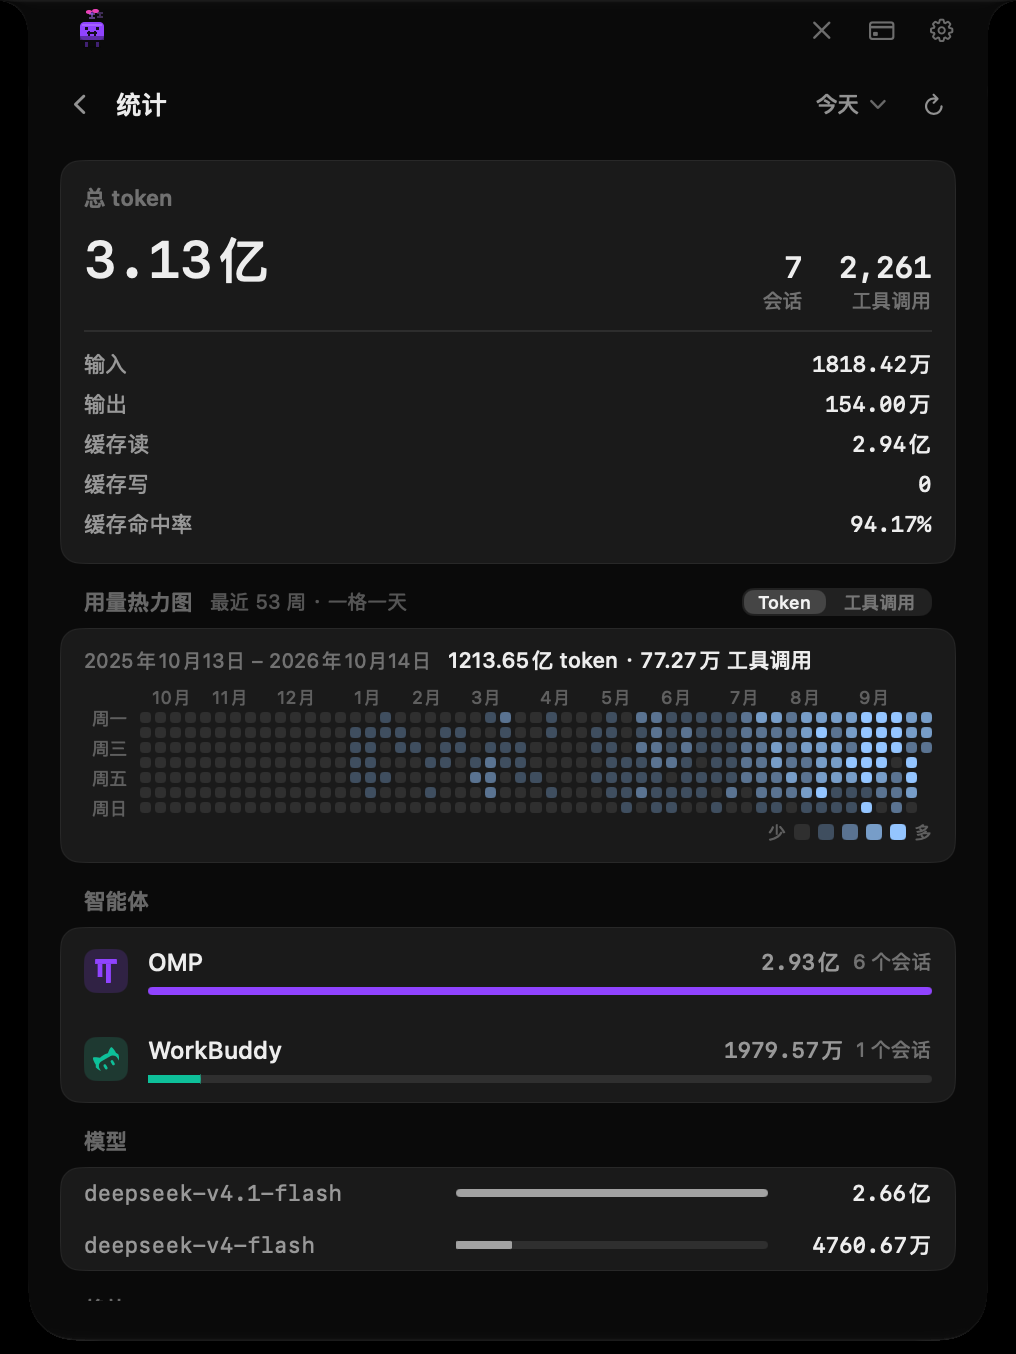
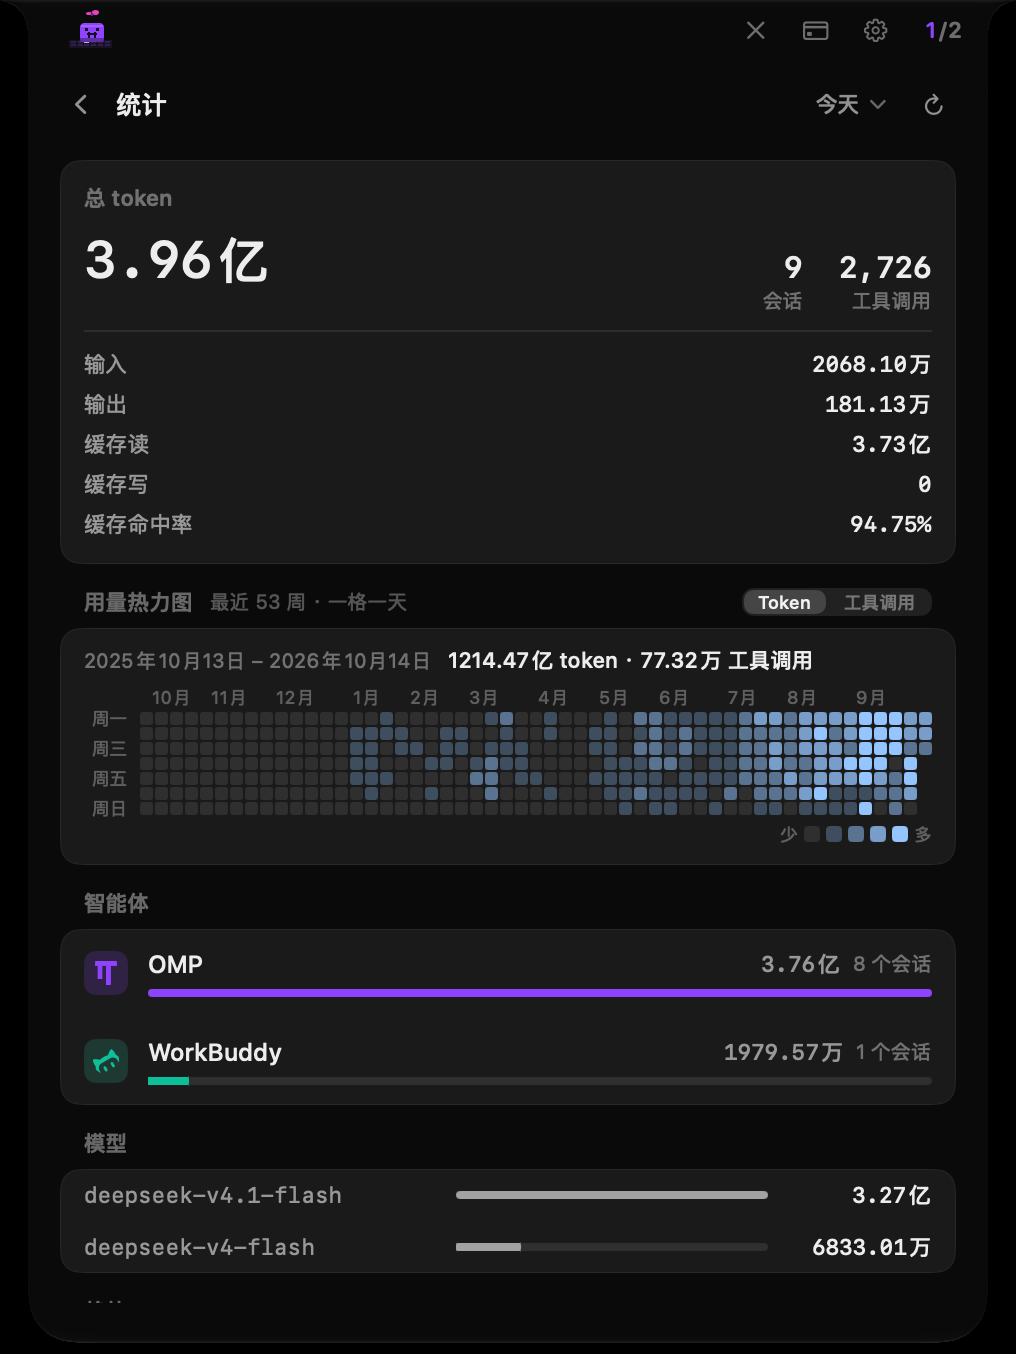
fix: 热力图格间距 2 → 1pt（格子更大、不再像点阵）
53 列塞进几百点宽时，2pt 的缝快赶上格子本身宽（约 36%），一眼是「点阵」不是热力图。
收到 1pt 后标准档格子 5.51 → 6.49pt（紧凑档 4.42 → 5.40pt），整块更接近参考稿的密度；
月历标签行与星期标签栏共用同一个间距常量，因此标签与列仍然逐列对齐。

图例的色阶方块间距顺手抽成常量（`heatmapLegendSwatchSpacing`，3pt）——它原来写死在视图里、
宽度用例里又抄了一遍字面量。

README 两张统计页截图跟着重拍。

diff --git a/AgentIsland/Core/UsageStatsLayout.swift b/AgentIsland/Core/UsageStatsLayout.swift
@@ -193,9 +193,12 @@ nonisolated enum UsageStatsMetrics {
 
     // MARK: - 热力图（近 53 周 · 每日用量）
 
-    /// 格子间距（行、列同一个）与圆角。格子小（标准档约 5.5pt），圆角因此比
+    /// 格子间距（行、列同一个）与圆角。格子小（标准档约 6.5pt），圆角因此比
     /// `shareBarRadius` 还小一档。
-    static let heatmapCellSpacing: CGFloat = 2
+    ///
+    /// 间距取 1pt：53 列塞进几百点宽，2pt 的缝快赶上格子本身宽（约 36%，一眼是「点阵」
+    /// 而不是「热力图」）；1pt 时格子更大（标准档 5.51 → 6.49pt）、整块更接近参考稿的密度。
+    static let heatmapCellSpacing: CGFloat = 1
     static let heatmapCellRadius: CGFloat = 1.5
     /// 左侧星期标签栏的宽度：只画隔行的 周一 / 周三 / 周五 / 周日。取**固定值**而不是按
     /// 文案自适应——面板高度的解析式要跟语言无关；「两种语言的星期缩写都排得下」由
@@ -217,6 +220,8 @@ nonisolated enum UsageStatsMetrics {
     static let heatmapLegendHeight: CGFloat = 11
     static let heatmapLegendSwatchSize: CGFloat = 8
     static let heatmapLegendSwatchRadius: CGFloat = 2
+    /// 图例里色阶小方块之间的间距（比格网的间距宽一点：图例的方块大、挨太紧会糊成一条）。
+    static let heatmapLegendSwatchSpacing: CGFloat = 3
     /// 右上角分档控件（Tokens / 工具调用）的高度与分段间距：与分组标题行同高（14），
     /// 标题、说明行与控件挤在同一行里（说明行不进卡片——那是整页只剩几个点余量时
     /// 最先该省的一行）。

diff --git a/AgentIslandTests/UsageStatsLayoutTests.swift b/AgentIslandTests/UsageStatsLayoutTests.swift
@@ -237,7 +237,8 @@ struct UsageStatsLayoutTests {
         // 图例（右下角）：少 + 5 格色阶 + 多。
         let legendNeeded =
           labelWidth(text("Less"), size: 9) + 5 * UsageStatsMetrics.heatmapLegendSwatchSize
-          + 6 * 4 + labelWidth(text("More"), size: 9)
+          + 6 * UsageStatsMetrics.heatmapLegendSwatchSpacing
+          + labelWidth(text("More"), size: 9)
         #expect(
           legendNeeded <= available,
           "\(panel.name) 档下 \(code) 的图例要 \(legendNeeded)pt，可用 \(available)pt")

diff --git a/AgentIsland/UI/Views/UsageHeatmap.swift b/AgentIsland/UI/Views/UsageHeatmap.swift
@@ -178,7 +178,7 @@ struct UsageHeatmap: View {
 
     /// 色阶图例（右下角）：浅 → 深五格 + 两端的「少 / 多」。
     private var legend: some View {
-        HStack(spacing: 4) {
+        HStack(spacing: UsageStatsMetrics.heatmapLegendSwatchSpacing) {
             Text(l10n.t("Less"))
                 .appFont(9)
                 .foregroundColor(AppPalette.subtleText)
